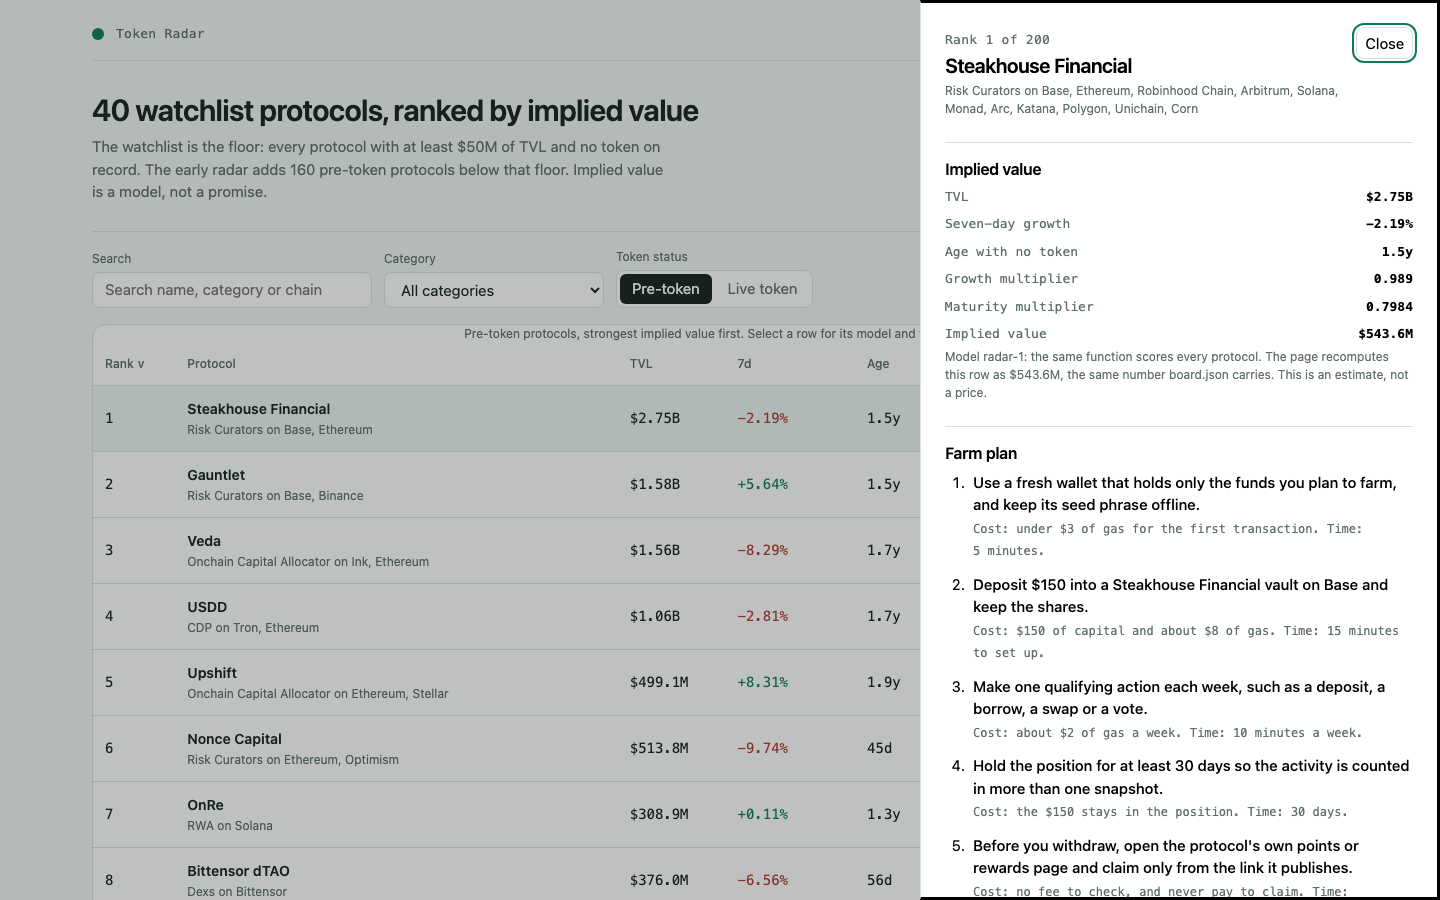
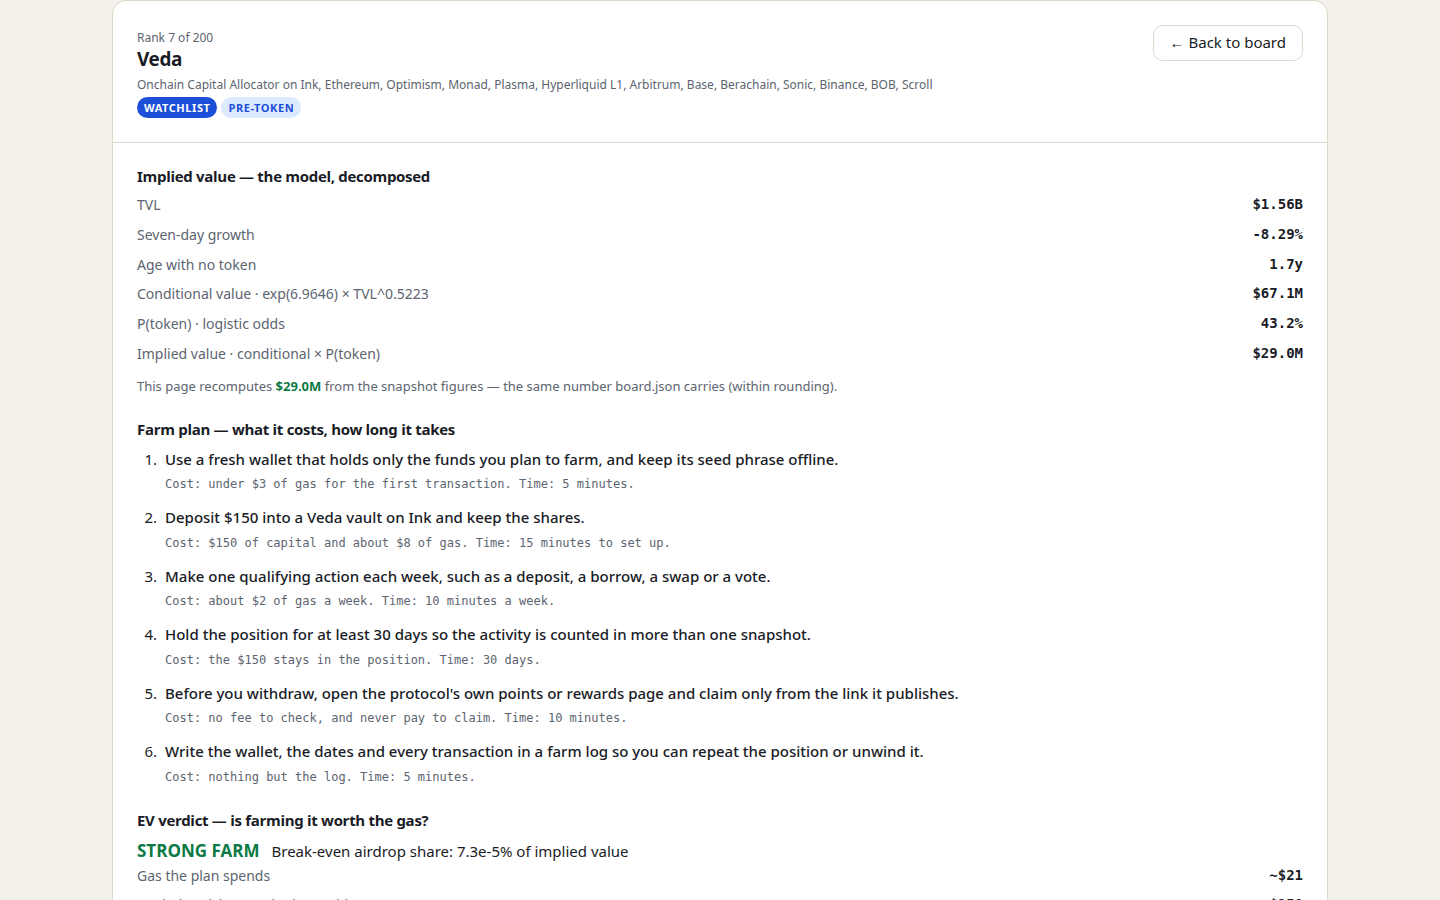
Fix dashboard lede + retake 3 screenshots (puppeteer, match board.json)

diff --git a/dashboard/app.js b/dashboard/app.js
@@ -286,7 +286,7 @@
     return el('section', { class: 'lede' },
       el('div', null,
         el('h1', { text: DATA.watchlist_size + ' watchlist protocols, ranked by implied value' }),
-        el('p', { text: 'The watchlist is the floor: every protocol with at least $' + Math.round(DATA.floor_usd / 1e6) + 'M of TVL and no token on record. The early radar adds ' + DATA.early_size + ' pre-token protocols below that floor, by TVL. Implied value is the probability-weighted launch value — a model, not a promise.' })
+        el('p', { text: 'The watchlist is the floor: every protocol with at least $' + Math.round(DATA.floor_usd / 1e6) + 'M of TVL and no token on record. The early radar adds ' + DATA.early_size + ' more pre-token protocols below that floor, ranked by implied value like the rest of the board. Implied value is the probability-weighted launch value — a model, not a promise.' })
       ),
       el('div', { class: 'facts' },
         el('div', { class: 'fact' }, el('span', { text: 'Watchlist covered' }), el('b', { text: DATA.watchlist_size + ' / ' + DATA.watchlist_size })),
